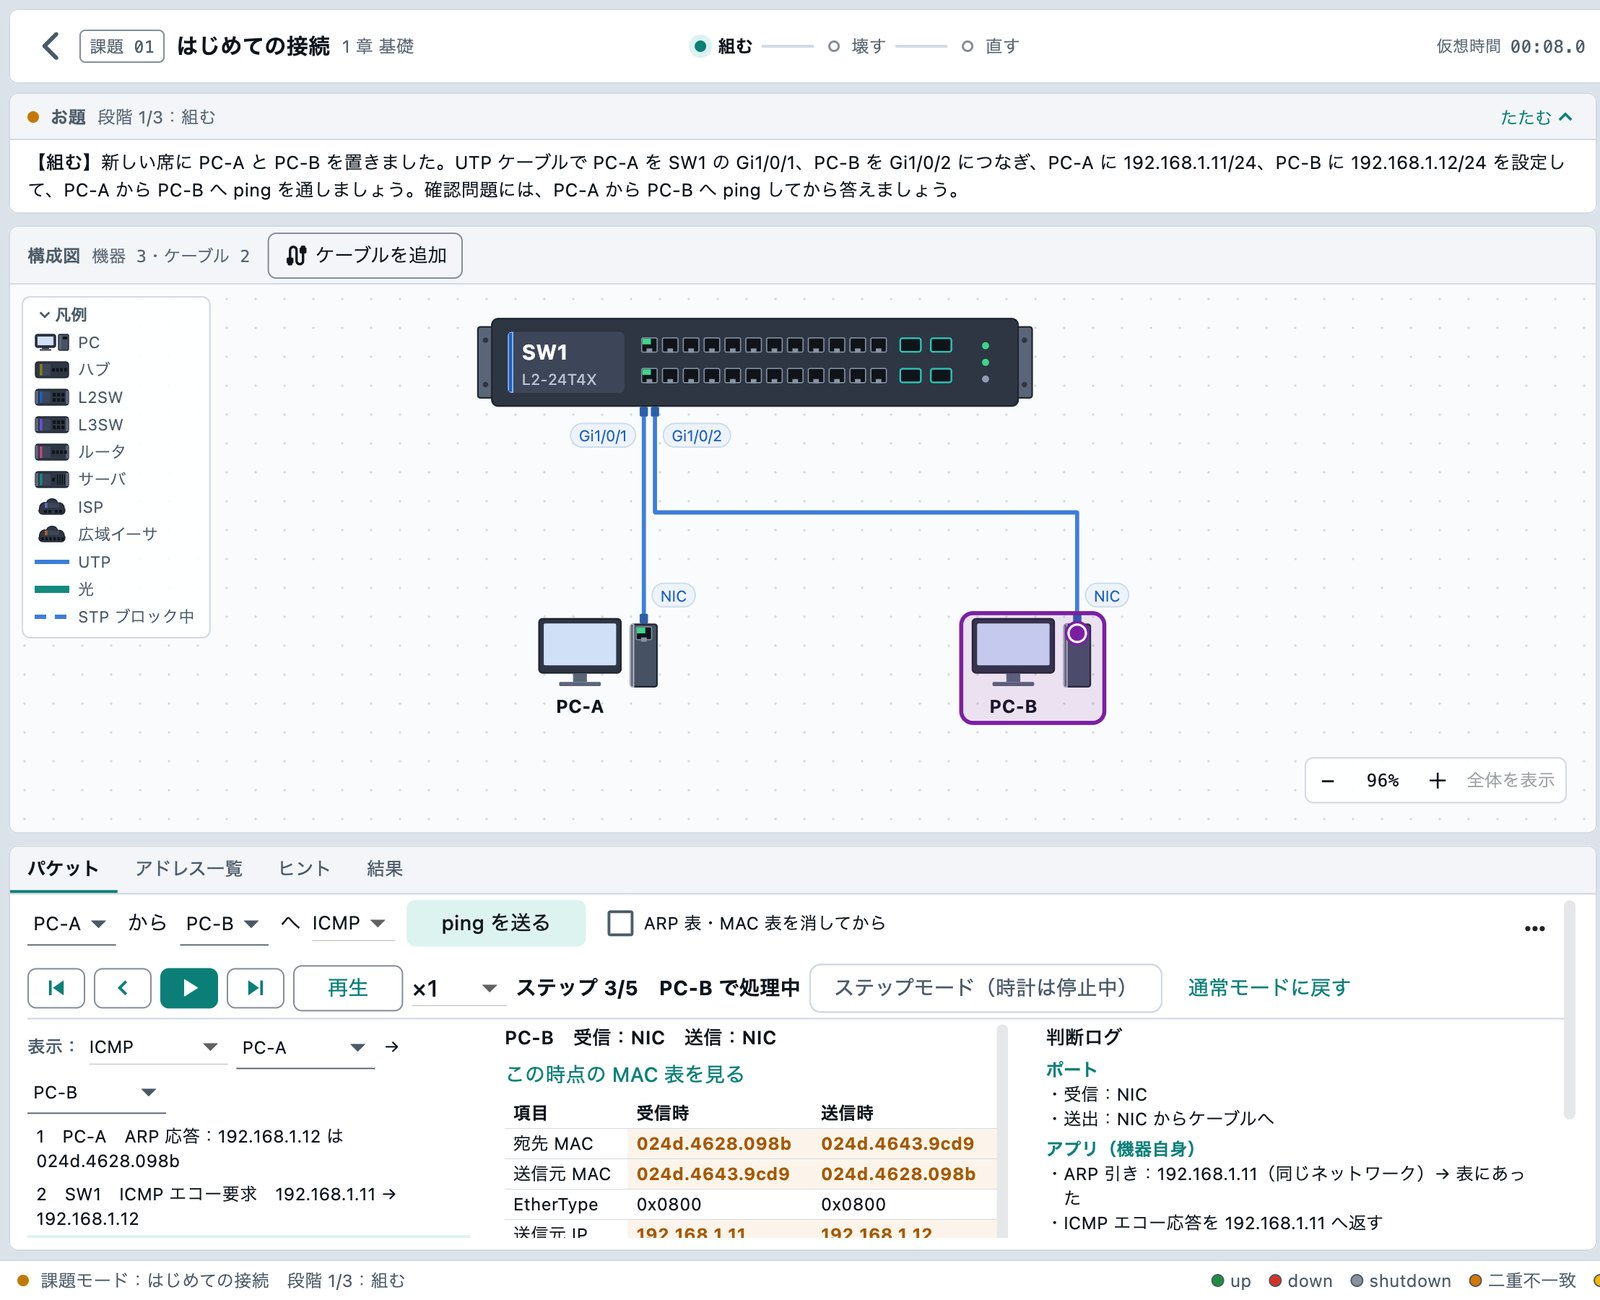
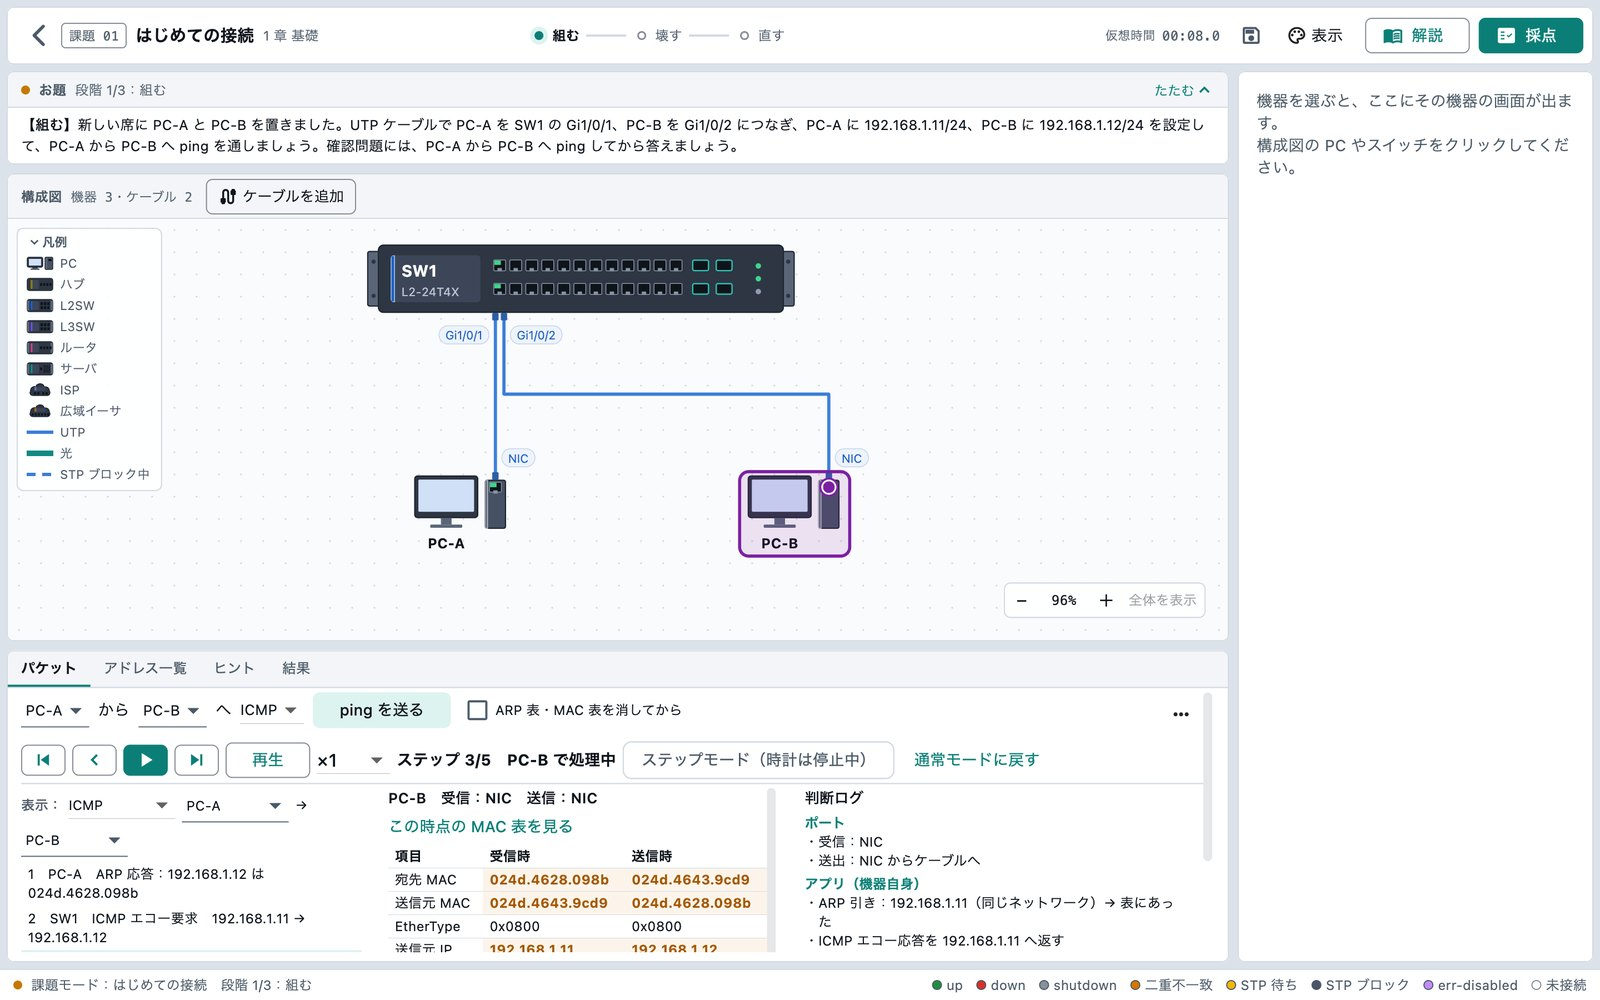
network-sim：ヒーローの画像をやめ、スクリーンイメージを 6 枚（16:10）にしてポップアップで拡大できるようにする。トップのカードの「無償。」を削除
Claude-Session: https://claude.ai/code/session_01BQHxvHdJABYARFyquyAsAX

diff --git a/network-sim/index.html b/network-sim/index.html
@@ -20,7 +20,7 @@
 <meta name="twitter:image" content="https://mayudama.app/brand/og/ogp-1200x630.png">
 <!--
   差し替え手順
-  - 画面写真：network-sim/assets/shot-1.jpg（ヒーロー）と shot-2〜6.jpg（「スクリーンイメージ」の <figure>）。
+  - 画面写真：network-sim/assets/shot-1〜6.jpg（すべて 1600x1000）。「スクリーンイメージ」の <figure>。押すと /assets/lightbox.js のポップアップで開く（data-lightbox を付けた要素の中の a が対象）。
     同じ名前で上書きするか、<img> の src・width・height・alt と <figcaption> を直す。画像を足したら <figure> を 1 つ足す（格子は 2 列・スマホ 1 列）。
     実際のアプリの画面だけを使う（実在しない CLI の出力・画面は載せない）。アイコンは network-sim/icon.png。
   - 版の表記（版の番号・公開日）は、「ダウンロード」の id="release-info" の 1 か所だけ。新しい版を出したらここだけ直す。
@@ -37,6 +37,7 @@
 <link rel="icon" href="/favicon.svg" type="image/svg+xml">
 <link rel="apple-touch-icon" href="/apple-touch-icon.png">
 <link rel="stylesheet" href="/assets/site.css">
+<script src="/assets/lightbox.js" defer></script>
 </head>
 <body class="app-netsim">
 
@@ -55,9 +56,6 @@
         <li class="chip">Mac</li>
       </ul>
       <div class="hero-actions"><a class="btn" href="#download">ダウンロード</a></div>
-    </div>
-    <div class="lp-shot">
-      <img src="assets/shot-1.jpg" width="1600" height="646" alt="DHCP でアドレスを配る課題の画面。左に構成図、右に PC のコマンド画面で ipconfig /all の結果が表示されている">
     </div>
   </section>
 
@@ -99,13 +97,17 @@
   <section id="screens" class="band-white" aria-labelledby="screens-title">
     <div class="wrap lp-section">
       <h2 id="screens-title" class="section-title">スクリーンイメージ</h2>
-      <div class="shot-grid">
+      <div class="shot-grid" data-lightbox>
+        <figure class="shot-fig">
+          <a href="assets/shot-1.jpg"><img src="assets/shot-1.jpg" width="1600" height="1000" loading="lazy" alt="DHCP でアドレスを配る課題の画面。左に構成図、右に PC のコマンド画面で ipconfig /all の結果が表示されている"></a>
+          <figcaption>DHCP の課題。構成図と、PC のコマンド画面（ipconfig /all）です。</figcaption>
+        </figure>
         <figure class="shot-fig">
           <a href="assets/shot-2.jpg"><img src="assets/shot-2.jpg" width="1600" height="1000" loading="lazy" alt="最初の課題の画面。スイッチの CLI で show vlan を実行し、VLAN の一覧が表示されている"></a>
           <figcaption>スイッチの CLI。show vlan などの確認コマンドが使えます。</figcaption>
         </figure>
         <figure class="shot-fig">
-          <a href="assets/shot-3.jpg"><img src="assets/shot-3.jpg" width="1600" height="1300" loading="lazy" alt="パケットのステップ実行の画面。ヘッダの変化と、機器ごとの判断のログが表示されている"></a>
+          <a href="assets/shot-3.jpg"><img src="assets/shot-3.jpg" width="1600" height="1000" loading="lazy" alt="パケットのステップ実行の画面。ヘッダの変化と、機器ごとの判断のログが表示されている"></a>
           <figcaption>パケットのステップ実行。ヘッダの変化と、機器ごとの判断を追えます。</figcaption>
         </figure>
         <figure class="shot-fig">

diff --git a/assets/lightbox.js b/assets/lightbox.js
@@ -1,0 +1,85 @@
+/* 画像のポップアップ。[data-lightbox] の中の <a href="画像"> を押すと <dialog> で開く。
+   JS が動かないときは、a がそのまま画像へのリンクとして働く。 */
+(function () {
+  'use strict';
+  var groups = document.querySelectorAll('[data-lightbox]');
+  if (!groups.length || typeof HTMLDialogElement === 'undefined') return;
+
+  var dlg = document.createElement('dialog');
+  dlg.className = 'lb-dialog';
+  dlg.setAttribute('aria-label', '画像の拡大表示');
+  dlg.innerHTML =
+    '<div class="lb-stage">' +
+    '<button type="button" class="lb-btn lb-close" aria-label="閉じる">×</button>' +
+    '<button type="button" class="lb-btn lb-prev" aria-label="前の画像">‹</button>' +
+    '<img class="lb-img" alt="">' +
+    '<p class="lb-cap"></p>' +
+    '<button type="button" class="lb-btn lb-next" aria-label="次の画像">›</button>' +
+    '</div>';
+  document.body.appendChild(dlg);
+  var stage = dlg.querySelector('.lb-stage');
+  var img = dlg.querySelector('.lb-img');
+  var cap = dlg.querySelector('.lb-cap');
+  var prev = dlg.querySelector('.lb-prev');
+  var next = dlg.querySelector('.lb-next');
+  var closeBtn = dlg.querySelector('.lb-close');
+
+  var links = [];
+  var index = 0;
+  var opener = null;
+
+  function show(i) {
+    index = i;
+    var a = links[i];
+    var thumb = a.querySelector('img');
+    var fig = a.closest('figure');
+    var fc = fig && fig.querySelector('figcaption');
+    img.src = a.getAttribute('href');
+    img.alt = thumb ? thumb.alt : '';
+    cap.textContent = fc ? fc.textContent.trim() : '';
+    stage.classList.toggle('has-cap', !!cap.textContent);
+    prev.disabled = i === 0;
+    next.disabled = i === links.length - 1;
+  }
+
+  function open(group, a) {
+    links = Array.prototype.slice.call(group.querySelectorAll('a[href]'));
+    opener = a;
+    show(links.indexOf(a));
+    document.body.classList.add('lb-open');
+    dlg.showModal();
+    closeBtn.focus();
+  }
+
+  function step(d) {
+    var n = index + d;
+    if (n < 0 || n >= links.length) return;
+    show(n);
+  }
+
+  groups.forEach(function (group) {
+    group.addEventListener('click', function (e) {
+      if (e.defaultPrevented || e.button !== 0 || e.metaKey || e.ctrlKey || e.shiftKey || e.altKey) return;
+      var a = e.target.closest('a[href]');
+      if (!a || !group.contains(a)) return;
+      e.preventDefault();
+      open(group, a);
+    });
+  });
+
+  closeBtn.addEventListener('click', function () { dlg.close(); });
+  prev.addEventListener('click', function () { step(-1); });
+  next.addEventListener('click', function () { step(1); });
+  // 背景（画像・ボタン・説明の外側）を押したら閉じる
+  dlg.addEventListener('click', function (e) {
+    if (e.target === dlg || e.target === stage) dlg.close();
+  });
+  dlg.addEventListener('keydown', function (e) {
+    if (e.key === 'ArrowLeft') { e.preventDefault(); step(-1); }
+    else if (e.key === 'ArrowRight') { e.preventDefault(); step(1); }
+  });
+  dlg.addEventListener('close', function () {
+    document.body.classList.remove('lb-open');
+    if (opener) opener.focus();
+  });
+})();

diff --git a/assets/site.css b/assets/site.css
@@ -226,3 +226,30 @@ main.doc > footer a { color: var(--ink); }
 
 /* ---------- トップのカード見出し：区切り（<wbr>）以外では折らない ---------- */
 .app-card h3.title-keep { word-break: keep-all; }
+
+/* ---------- 画像のポップアップ（lightbox.js）と、16:10 の画像枠 ---------- */
+.shot-fig img { aspect-ratio: 16 / 10; object-fit: contain; }
+.lb-dialog { border: 0; padding: 0; background: transparent; max-width: none; max-height: none; width: 100vw; height: 100vh; color: #fff; overflow: hidden; }
+.lb-dialog::backdrop { background: rgba(20, 18, 14, .86); }
+.lb-stage { position: relative; width: 100%; height: 100%; display: flex; flex-direction: column; align-items: center; justify-content: center; gap: 12px; padding: 0 56px; box-sizing: border-box; }
+.lb-img { display: block; max-width: 95vw; max-height: 90vh; width: auto; height: auto; object-fit: contain; border-radius: 8px; background: #fff; }
+.lb-stage.has-cap .lb-img { max-height: calc(90vh - 56px); }
+.lb-cap { margin: 0; max-width: 90vw; text-align: center; font-size: 14px; line-height: 1.6; color: #F4F1EA; }
+.lb-btn { position: absolute; width: 48px; height: 48px; border: 0; border-radius: 999px; background: rgba(255, 255, 255, .16); color: #fff; font-size: 26px; line-height: 1; cursor: pointer; display: flex; align-items: center; justify-content: center; }
+.lb-btn:hover { background: rgba(255, 255, 255, .3); }
+.lb-btn:disabled { opacity: .3; cursor: default; }
+.lb-btn:focus-visible { outline: 2px solid #fff; outline-offset: 2px; }
+.lb-close { top: 12px; right: 12px; }
+.lb-prev { left: 4px; top: 50%; transform: translateY(-50%); }
+.lb-next { right: 4px; top: 50%; transform: translateY(-50%); }
+body.lb-open { overflow: hidden; }
+@media (max-width: 680px) {
+  .lb-stage { padding: 0 8px; }
+  .lb-prev, .lb-next { top: auto; bottom: 12px; transform: none; }
+  .lb-prev { left: 12px; } .lb-next { right: 12px; }
+  .lb-stage.has-cap .lb-img { max-height: calc(90vh - 130px); }
+}
+@media (prefers-reduced-motion: no-preference) {
+  .lb-dialog[open] { animation: lb-fade .15s ease; }
+  @keyframes lb-fade { from { opacity: 0; } to { opacity: 1; } }
+}

diff --git a/index.html b/index.html
@@ -103,7 +103,7 @@
         <a class="app-icon-link" href="network-sim/" tabindex="-1" aria-hidden="true"><img class="app-icon" src="network-sim/icon.png" width="72" height="72" alt=""></a>
         <div>
           <h3 class="title-keep">ネットワーク<wbr>構築<wbr>シミュレータ</h3>
-          <p class="desc">新人が L2／L3 のネットワークを、Cisco 風の CLI で組んで・壊して・直して学ぶ演習ソフト。無償。</p>
+          <p class="desc">新人が L2／L3 のネットワークを、Cisco 風の CLI で組んで・壊して・直して学ぶ演習ソフト。</p>
           <ul class="chips" aria-label="対応している端末">
             <li class="chip">Windows</li>
             <li class="chip">Mac</li>
